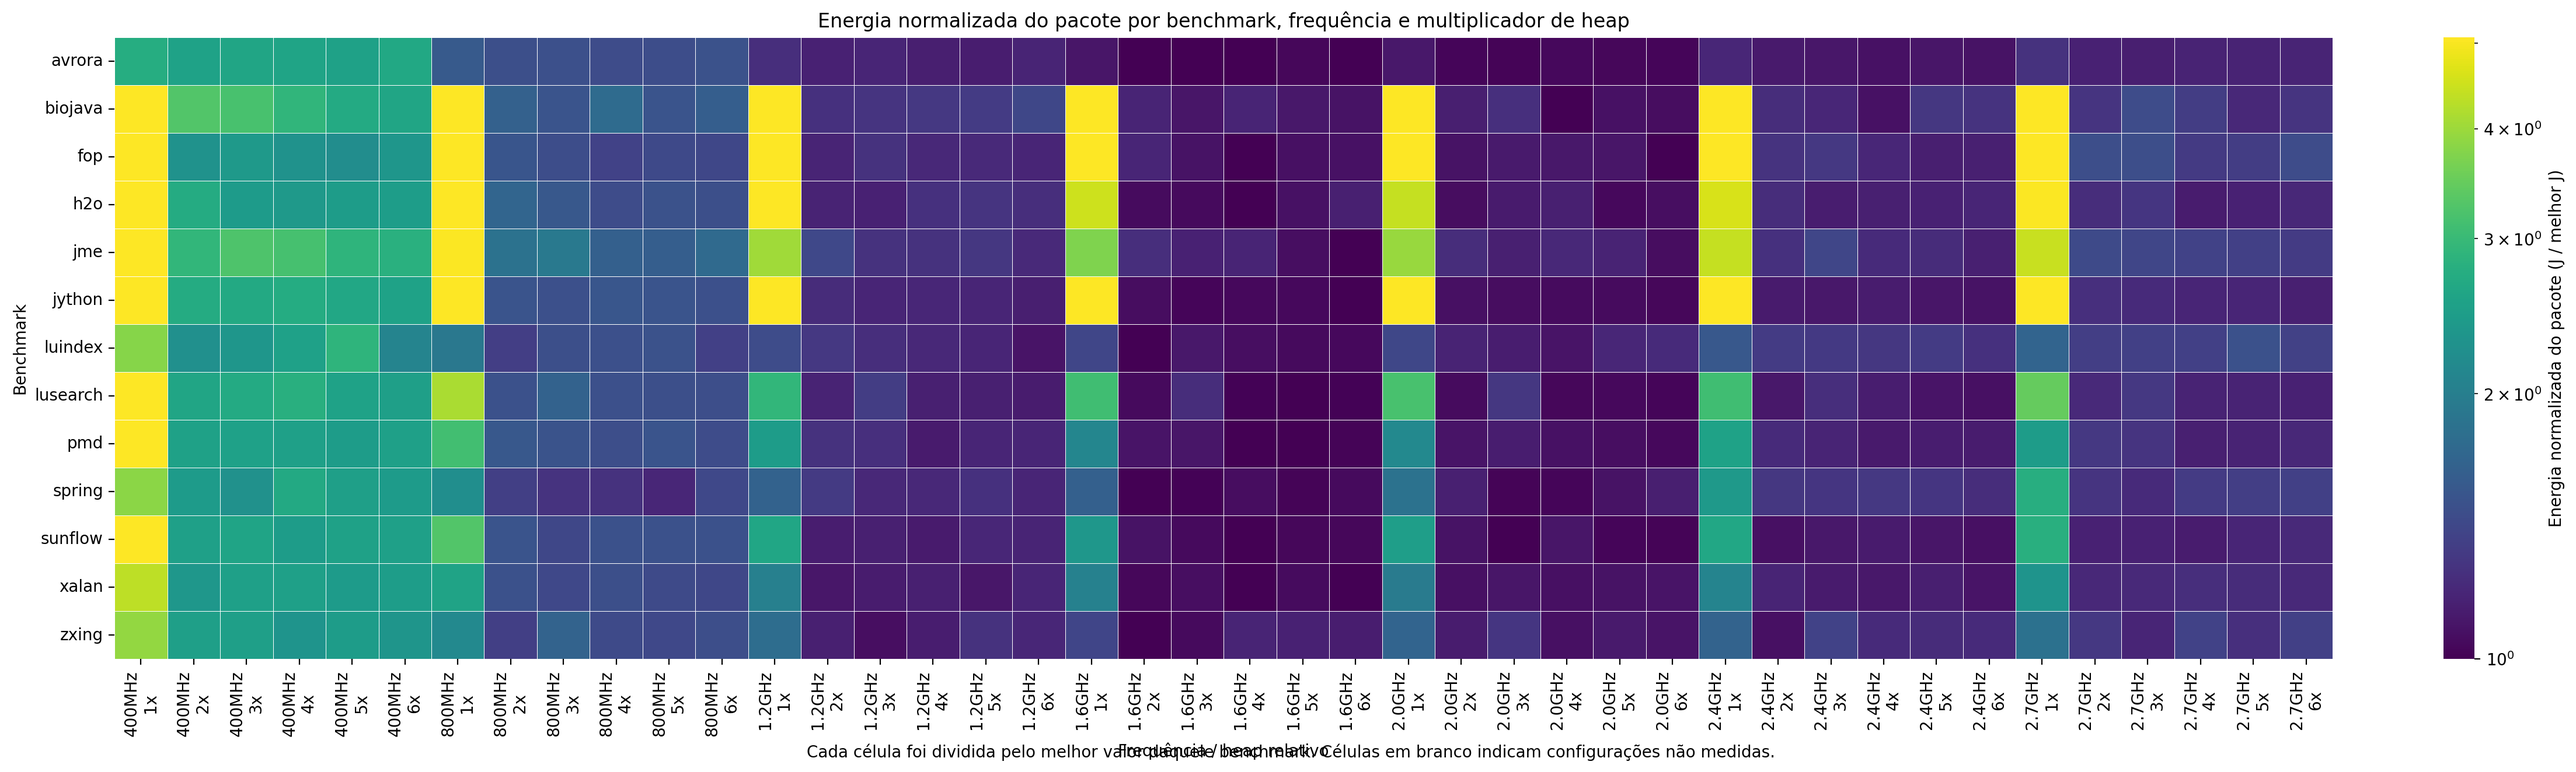
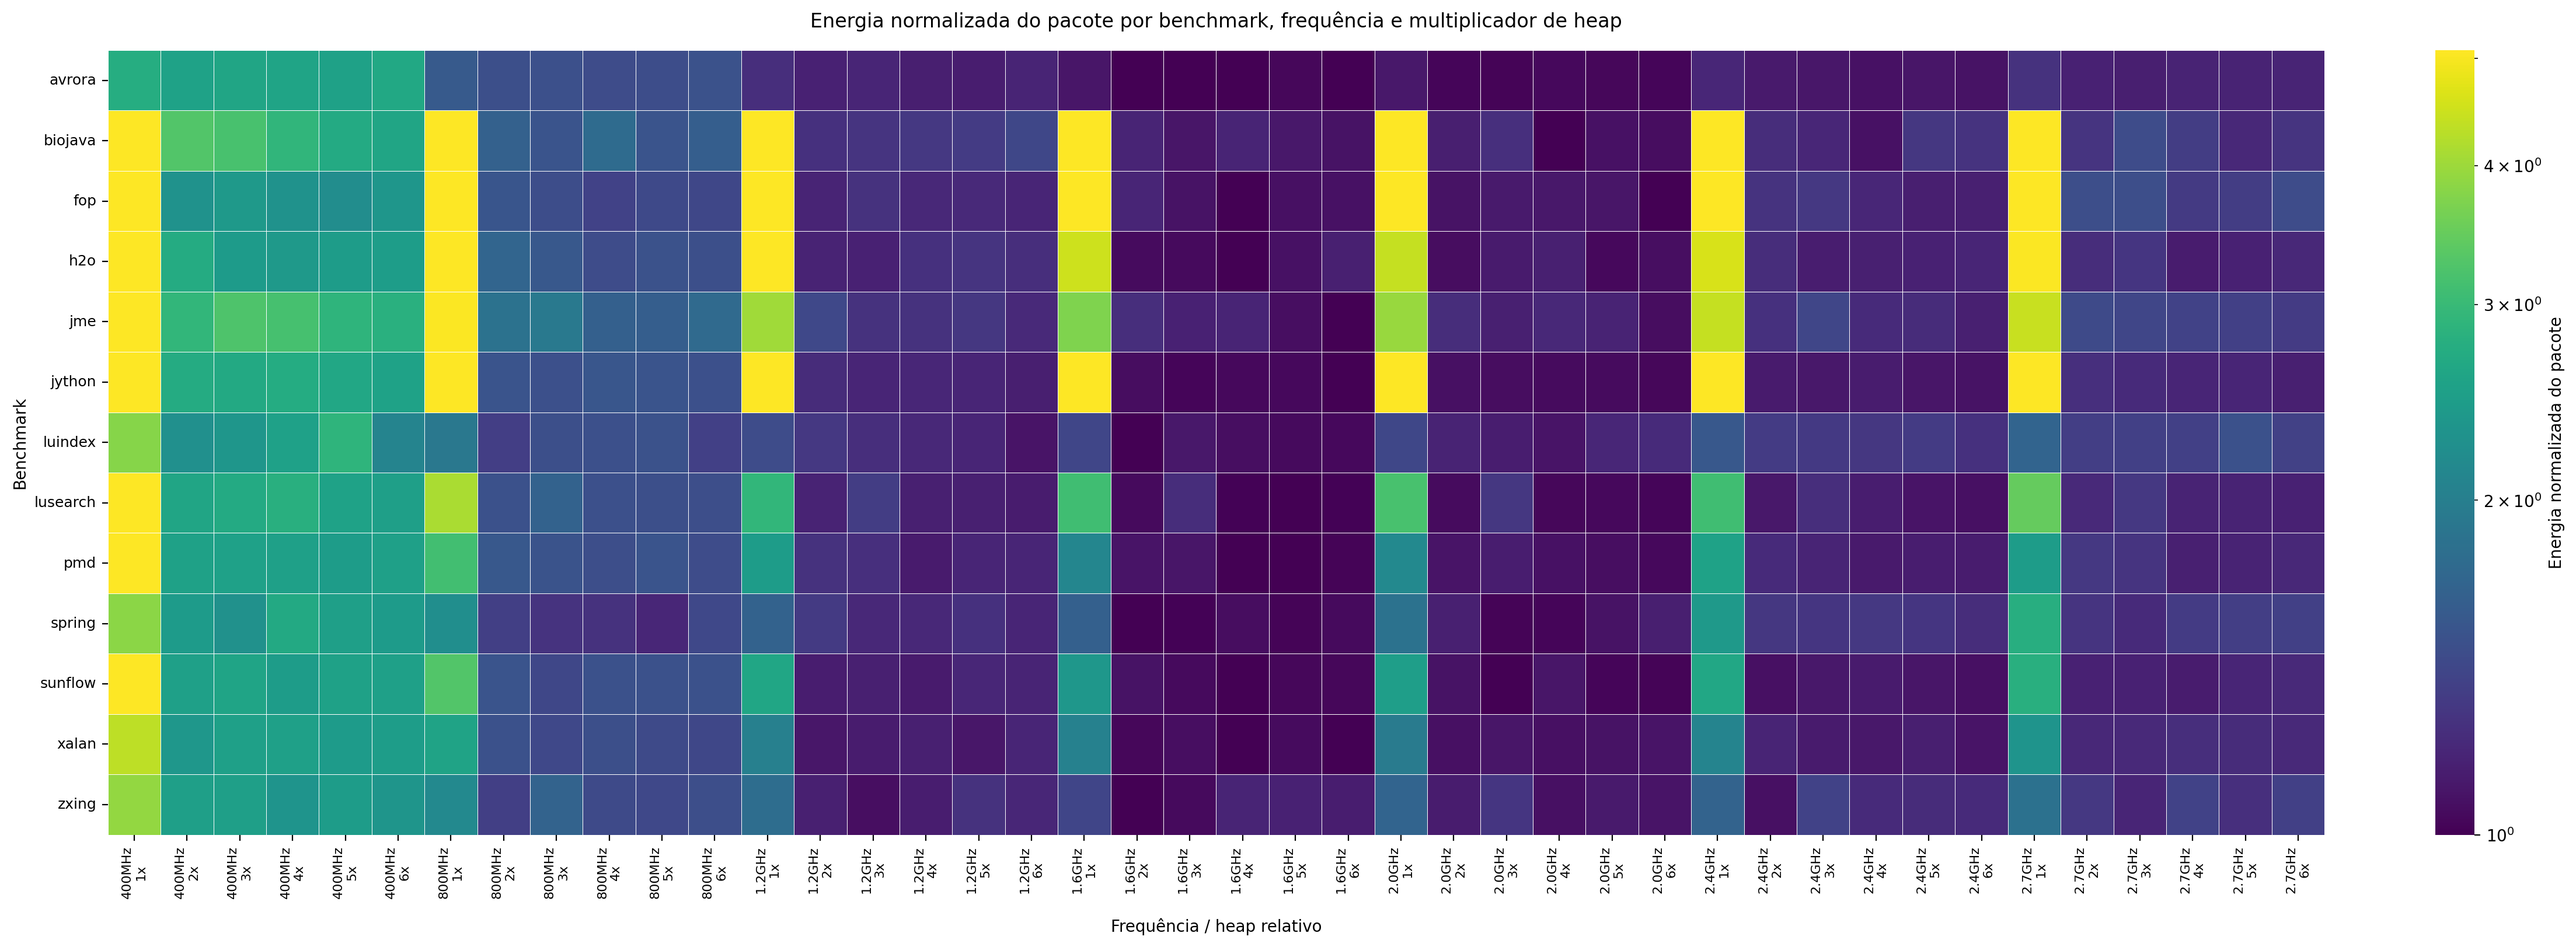
REVISAO - ajuste grafico

diff --git a/scripts/generate_graphs.py b/scripts/generate_graphs.py
@@ -522,7 +522,7 @@ def generate_summary_heatmaps(df, summary_output_dir):
         finite_values = finite_values[pd.notna(finite_values)]
         vmax = max(float(pd.Series(finite_values).quantile(0.95)), 1.2) if len(finite_values) else 1.2
 
-        fig, ax = plt.subplots(1, 1, figsize=(22, 6.5), constrained_layout=True)
+        fig, ax = plt.subplots(1, 1, figsize=(22, 8), constrained_layout=True)
         sns.heatmap(
             pivot,
             ax=ax,
@@ -532,18 +532,14 @@ def generate_summary_heatmaps(df, summary_output_dir):
             linewidths=0.2,
             cbar_kws={'label': spec['colorbar_label']},
         )
-        ax.set_title(f"{spec['title']} por benchmark, frequência e multiplicador de heap")
-        ax.set_xlabel('Frequência / heap relativo')
-        ax.set_ylabel('Benchmark')
-        ax.tick_params(axis='x', rotation=90)
-        ax.tick_params(axis='y', rotation=0)
-        fig.text(
-            0.5,
-            0.01,
-            'Cada célula foi dividida pelo melhor valor daquele benchmark. Células em branco indicam configurações não medidas.',
-            ha='center',
-            fontsize=10,
+        ax.set_title(
+            f"{spec['title']} por benchmark, frequência e multiplicador de heap",
+            pad=14,
         )
+        ax.set_xlabel('Frequência / heap relativo', labelpad=12)
+        ax.set_ylabel('Benchmark')
+        ax.tick_params(axis='x', rotation=90, labelsize=8)
+        ax.tick_params(axis='y', rotation=0, labelsize=9)
         output_path = summary_output_dir / spec['filename']
         fig.savefig(output_path, dpi=200, bbox_inches='tight')
         plt.close(fig)

diff --git a/relatorio/capitulos/introducao.tex b/relatorio/capitulos/introducao.tex
@@ -77,7 +77,7 @@ métricas, consumo de energia e tempo de execução não estão perfeitamente
 relacionados \cite{programming_lang_energy}. Isso justifica a importância de
 testá-las e analisá-las separadamente. A partir da extensão desenvolvida e dos
 dados disponibilizados por \citeonline{dacapochopin}, foi realizada uma análise
-do consumo de energia e da eficiência energética para 16 cargas de trabalho da
+do consumo de energia e da eficiência energética para 13 cargas de trabalho da
 ferramenta, sob diferentes configurações da Java Virtual Machine (JVM) e do
 \textit{hardware} utilizado. Com base nessas métricas, este trabalho tem como
 objetivo compreender o comportamento do consumo de energia da JVM para os
